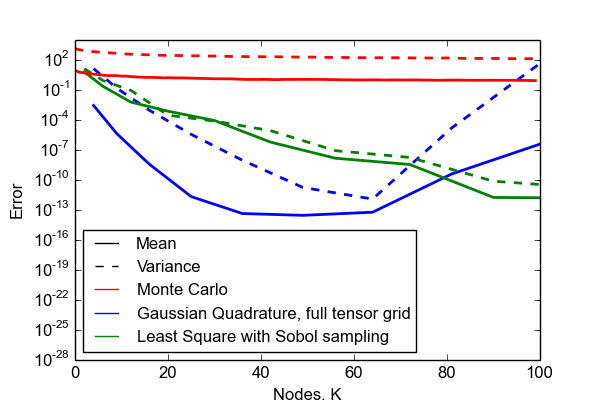
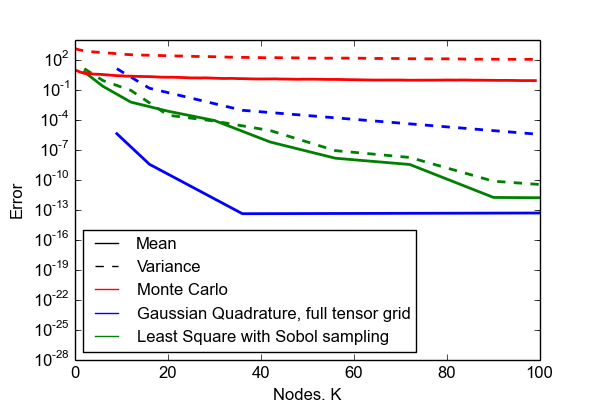
updated codes in lecture 1,2,4

diff --git a/lecture2.tex b/lecture2.tex
@@ -105,7 +105,7 @@ escapeinside=||
     % TODO
     % high: make it 2-D problem
  \begin{lstlisting}[language=python]
- def u(x,a, I):
+def u(x, a, I):
   return I*np.exp(-a*x)
 |\pause|
 dist_a = cp.Uniform(0, 0.1)
@@ -295,7 +295,7 @@ print weights
 % high: fill in code (using L as input)
 % skip "rule="
 \begin{lstlisting}[language=python]
-dist = cp.J(cp.Uniform(),cp.Uniform())  # joint multivariate dist
+dist = cp.J(cp.Uniform(), cp.Uniform())  # joint multivariate dist
 nodes, weights = cp.generate_quadrature((1,2), dist, rule="G")
 |\pause|
 print nodes
@@ -642,9 +642,9 @@ minimization in a vector space as in regression (or overdetermined matrix system
 def u(x, a, I):
   return I*np.exp(-a*x)
  |\pause|
-a = cp.Uniform(0, 0.1)
-I = cp.Uniform(8, 10)
-dist = cp.J(a,I)
+dist_a = cp.Uniform(0, 0.1)
+dist_I = cp.Uniform(8, 10)
+dist = cp.J(dist_a, dist_I)
 |\pause|
 x = np.linspace(0, 10, 100)
  |\pause|
@@ -682,9 +682,9 @@ u_hat = cp.fit_regression(P, nodes, samples_u)
                 \verb;nodes = dist.sample(100);
                 \normalsize
 
-                \includegraphics[width=0.65\textwidth]{samples_M.png}
+                \includegraphics[width=0.65\textwidth]{samples_H.png}
 
-                Hammersley sampling
+                Halton sampling
 
                 \scriptsize
                 \verb;nodes = dist.sample(100, "H");
@@ -713,6 +713,27 @@ u_hat = cp.fit_regression(P, nodes, samples_u)
      \end{center}
  \end{columns}
 \end{frame}
+
+\begin{frame}{Sampling schemes in Chaospy}
+\begin{center}
+
+ \begin{tabular}{lll}
+     Key &    Name              &  Nested\\\hline
+    K &    Korobov            & no\\
+    R &    (Pseudo-)Random    & no\\
+    L &    Latin hypercube    & no\\
+    S &    Sobol              & yes\\
+    H &    Halton             & yes\\
+    M&     Hammersley         & yes \\\hline
+  C &    Clenshaw Curtis    & no\\
+    G &    Gaussian quadrature& no\\
+    E & Gauss-Legendre & no\\\hline
+ \end{tabular}
+
+\end{center}
+
+\end{frame}
+
 
 
 \begin{frame}
@@ -940,9 +961,9 @@ dist_a = cp.Uniform(0, 0.1)
 dist_I = cp.Uniform(8, 10)
 dist = cp.J(dist_a, dist_I)
 |\pause|
-P = cp.orth_ttr(M, dist)
+P = cp.orth_ttr(3, dist)
 |\pause|
-nodes, weights = cp.generate_quadrature(M+1, dist)
+nodes, weights = cp.generate_quadrature(4, dist)
 |\pause|
 samples_u = [u(x, *node) for node in nodes.T]
 |\pause|

diff --git a/lecture1.tex b/lecture1.tex
@@ -392,16 +392,16 @@ Var = np.var(samples_u)
 \begin{lstlisting}[language=python]
 M = 5; N = M - 1
 
-a = cp.Uniform(0,0.1)
+dist_a = cp.Uniform(0, 0.1)
 |\pause|
-v = cp.basis(0,M,1)
+v = cp.basis(0, M, 1)
 P = [v[0]]
 |\pause|
-for n in xrange(1,N):
+for n in xrange(1, N):
     p = v[n]
-    for m in xrange(0,n):
-        p -= P[m]*cp.E(v[n]*P[m],a)
-                            /cp.E(P[m]**2,a)
+    for m in xrange(0, n):
+        p -= P[m]*cp.E(v[n]*P[m], dist_a)
+                            /cp.E(P[m]**2, dist_a)
     P.append(p)
 P = cp.Poly(P)
  \end{lstlisting}
@@ -487,10 +487,8 @@ P = cp.Poly(P)
 \begin{chaospy}{
     Three terms recursion in Chaospy}
 \begin{lstlisting}[language=python]
-import chaospy as cp
-
-a = cp.Normal()
-P = cp.orth_ttr(3, a)
+dist_a = cp.Normal()
+P = cp.orth_ttr(3, dist_a)
 
 print P
 [1.0, q0, q0^2-1.0, q0^3-3.0q0]
@@ -630,9 +628,9 @@ Single-index\\
 
  \begin{chaospy}{Creating multivariate orthogonal polynomials in Chaospy}
 \begin{lstlisting}[language=python]
-a = cp.Uniform(0, 0.1)
-I = cp.Uniform(8, 10)
-dist = cp.J(a,I)
+dist_a = cp.Uniform(0, 0.1)
+dist_I = cp.Uniform(8, 10)
+dist = cp.J(dist_a, dist_I)
 |\pause|
 P = cp.orth_ttr(1, dist)
 print P
@@ -684,8 +682,8 @@ a &\sim \text{Uniform(0, 0.1)} & I&= \text{Uniform(8, 10)}
 def u(x,a, I):
   return I*np.exp(-a*x)
 |\pause|
-a = cp.Uniform(0, 0.1)
-I = cp.Uniform(8, 10)
+dist_a = cp.Uniform(0, 0.1)
+dist_I = cp.Uniform(8, 10)
 dist = cp.J(a,I)|\pause|
 |\pause|
 P = cp.orth_ttr(2, dist)

diff --git a/figures/convergence_collocation_compare.py b/figures/convergence_collocation_compare.py
@@ -34,7 +34,7 @@ pl.plot(-1,1, "r")
 pl.plot(-1,1, "y")
 pl.plot(-1,1, "k")
 pl.plot(-1,1, "b")
-pl.legend(["(Pseudo-)Random, $[p_{05}, p_{95}]$","Latin Hyperscube, $[p_{05}, p_{95}]$","Sobol","Hammersley"],loc=3,prop={"size" :12})
+pl.legend(["(Pseudo-)Random, $[p_{05}, p_{95}]$","Latin Hyperscube, $[p_{05}, p_{95}]$","Sobol","Halton"],loc=3,prop={"size" :12})
 pl.rc("figure", figsize=[6,4])
 pl.xlim([5,55])
 pl.ylim([10**-9,10**0])
@@ -148,7 +148,7 @@ var = []
 K = []
 for n in range(0,N):
     P = cp.orth_ttr(n, dist)
-    nodes = dist.sample(2*len(P), "M")
+    nodes = dist.sample(2*len(P), "H")
     K.append(2*len(P))
     solves = [u(T, s[0], s[1]) for s in nodes.T]
     U_hat = cp.fit_regression(P, nodes, solves,rule="LS")
@@ -174,7 +174,7 @@ pl.yscale('log')
 pl.savefig("convergence_collocation_compare.png")
 
 pl.show()
-"""
+
 pl.figure()
 nodes = dist.sample(100)
 pl.scatter(nodes[0],nodes[1])
@@ -183,11 +183,11 @@ pl.ylabel("I")
 pl.savefig("samples.png")
 
 pl.figure()
-nodes = dist.sample(100, "M")
+nodes = dist.sample(100, "H")
 pl.scatter(nodes[0],nodes[1])
 pl.xlabel("a")
 pl.ylabel("I")
-pl.savefig("samples_M.png")
+pl.savefig("samples_H.png")
 
 pl.figure()
 nodes = dist.sample(100, "LH")
@@ -205,7 +205,7 @@ pl.savefig("samples_S.png")
 
 
 #pl.show()
-"""
+
 
 
 

diff --git a/lecture4.tex b/lecture4.tex
@@ -98,9 +98,9 @@ escapeinside=||
 def u(x,a, I):
   return I*np.exp(-a*x)
 |\pause|
-a = cp.Uniform(0, 0.1)
-I = cp.Uniform(8, 10)
-dist = cp.J(a,I)|\pause|
+dist_a = cp.Uniform(0, 0.1)
+dist_I = cp.Uniform(8, 10)
+dist = cp.J(dist_a, dist_I)
 |\pause|
 P = cp.orth_ttr(2, dist)
 |\pause|
@@ -152,7 +152,7 @@ def u(x,a, I):
 C = [[2,1],[1,2]]
 mu = [0.5,0.5]
 |\pause|
-R = cp.J(cp.Normal(),cp.Normal())
+R = cp.J(cp.Normal(), cp.Normal())
 |\pause|
 L =  np.linalg.cholesky(C)      # C = np.dot(L.T, L)
 |\pause|
@@ -204,7 +204,7 @@ dist_Q = cp.MvNormal(mu,C)
 x = np.linspace(0, 1, 100)
 dt = x[1]-x[0]
 M = 5
-
+|\pause|
 P = cp.orth_ttr(M, dist_R)|\pause|
 s_R = dist_R.sample(2*len(P), "M")|\pause|
 s_Q = dist_Q.inv(dist_R.fwd(s_R))|\pause|

diff --git a/figures/MC_convergence_2D_diff.py b/figures/MC_convergence_2D_diff.py
@@ -77,10 +77,10 @@ varCP = []
 
 K = []
 
-N = 8
+N = 7
 for n in xrange(0,N+1):
     P = cp.orth_ttr(n, dist)
-    nodes, weights = cp.generate_quadrature(n+1, dist, rule="G")
+    nodes, weights = cp.generate_quadrature(2**n+1, dist, rule="G")
     K.append(len(nodes[0]))
     i1,i2 = np.mgrid[:len(weights), :Nt]
     solves = u(T[i2],nodes[0][i1],nodes[1][i1])
